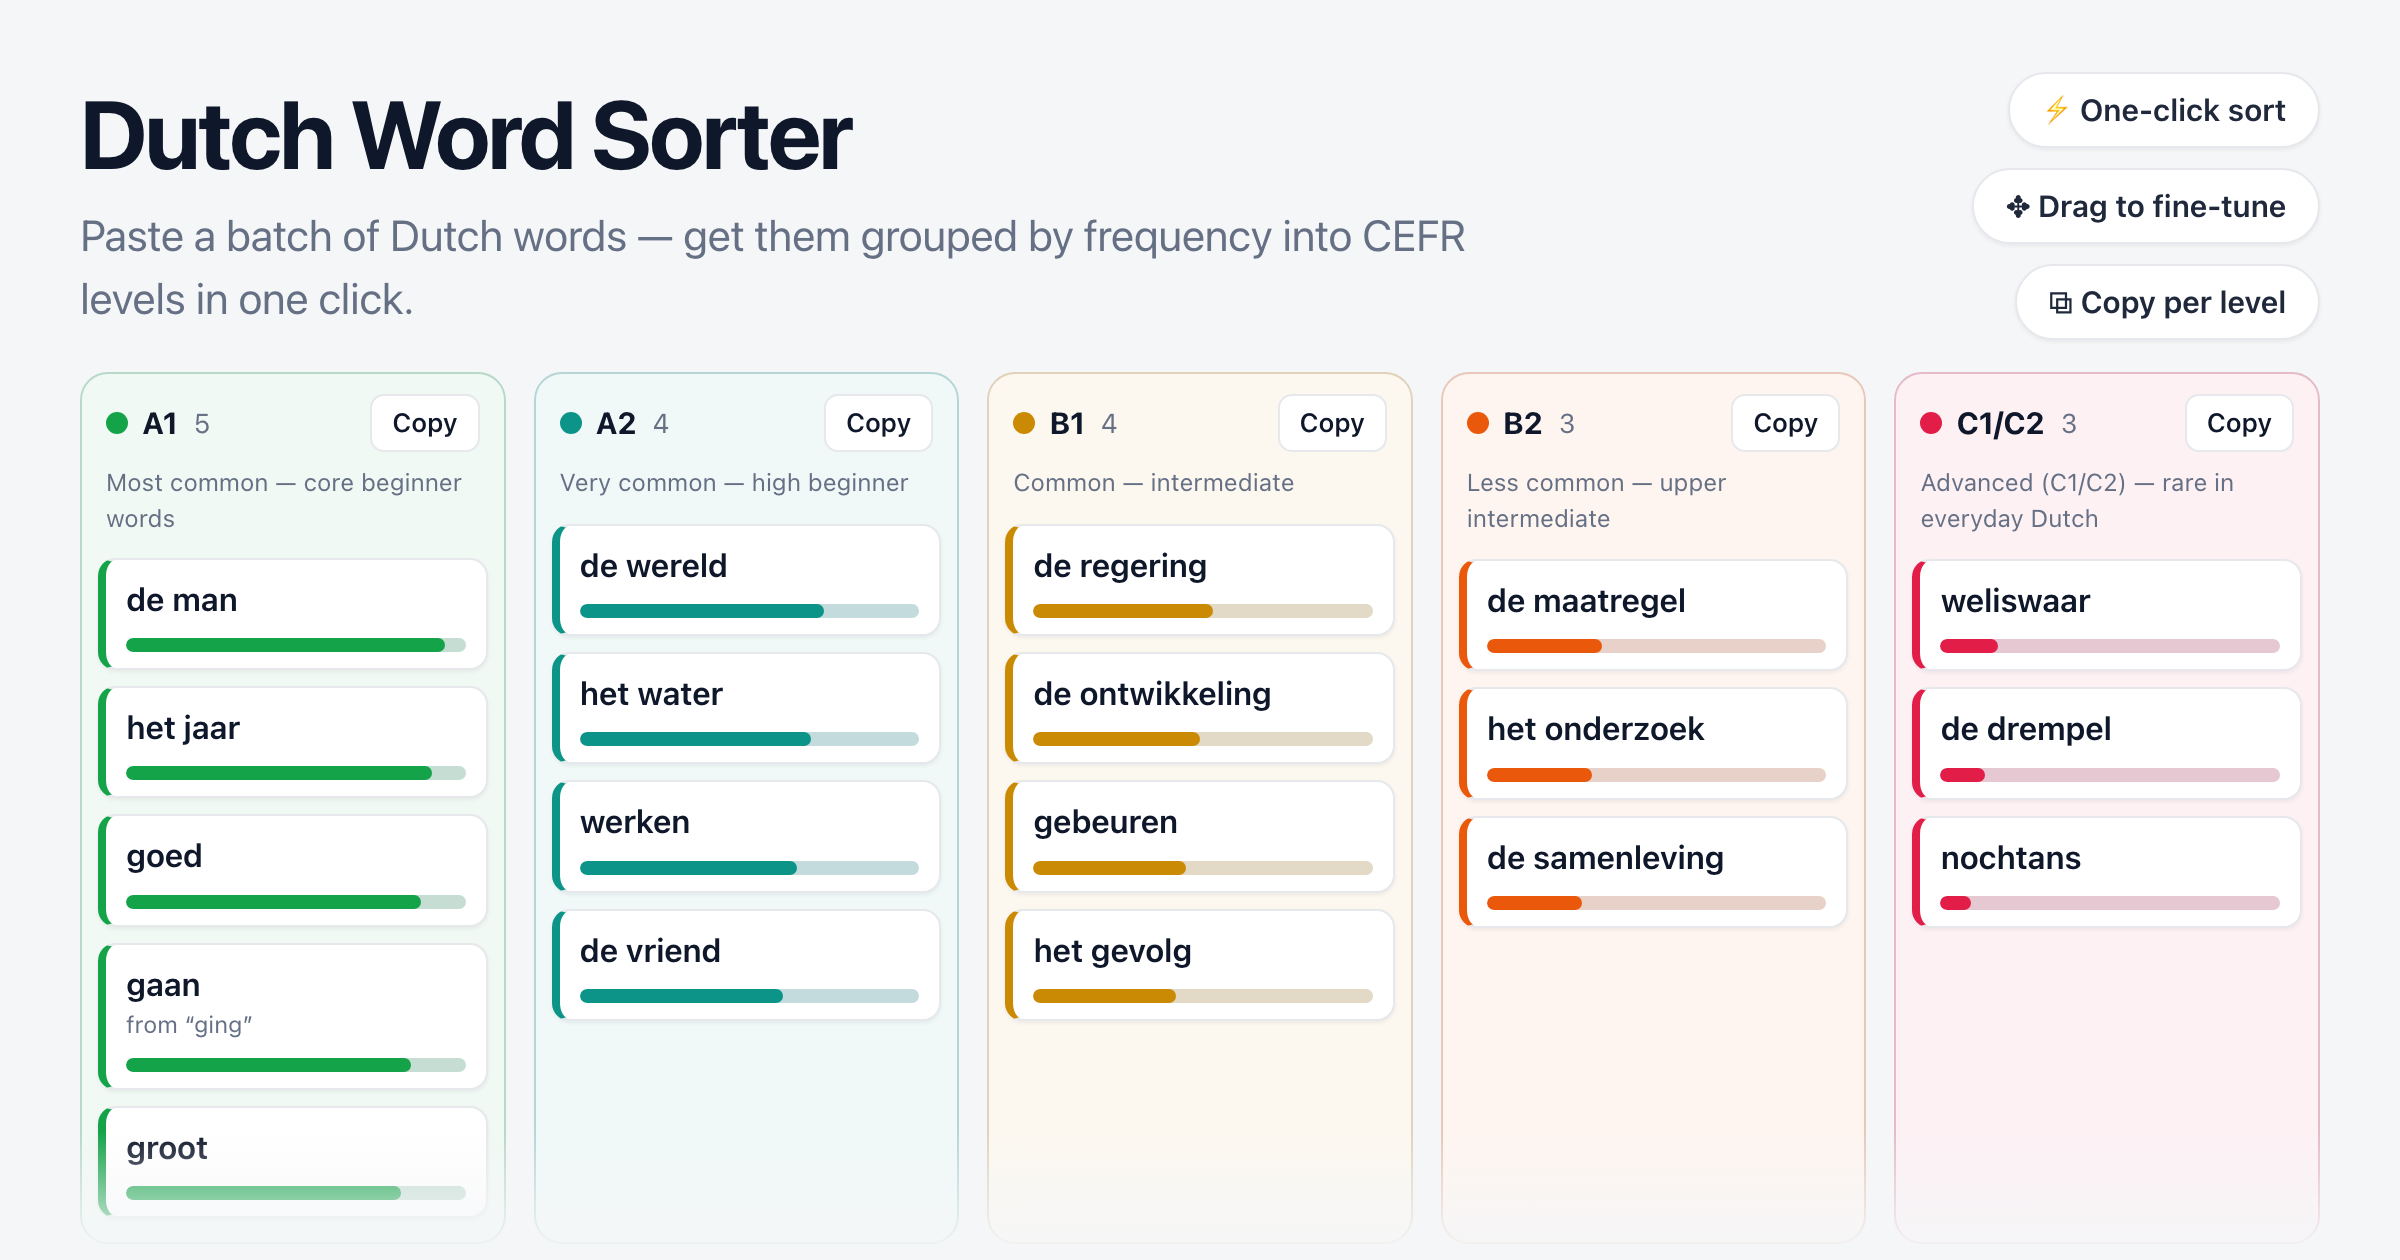
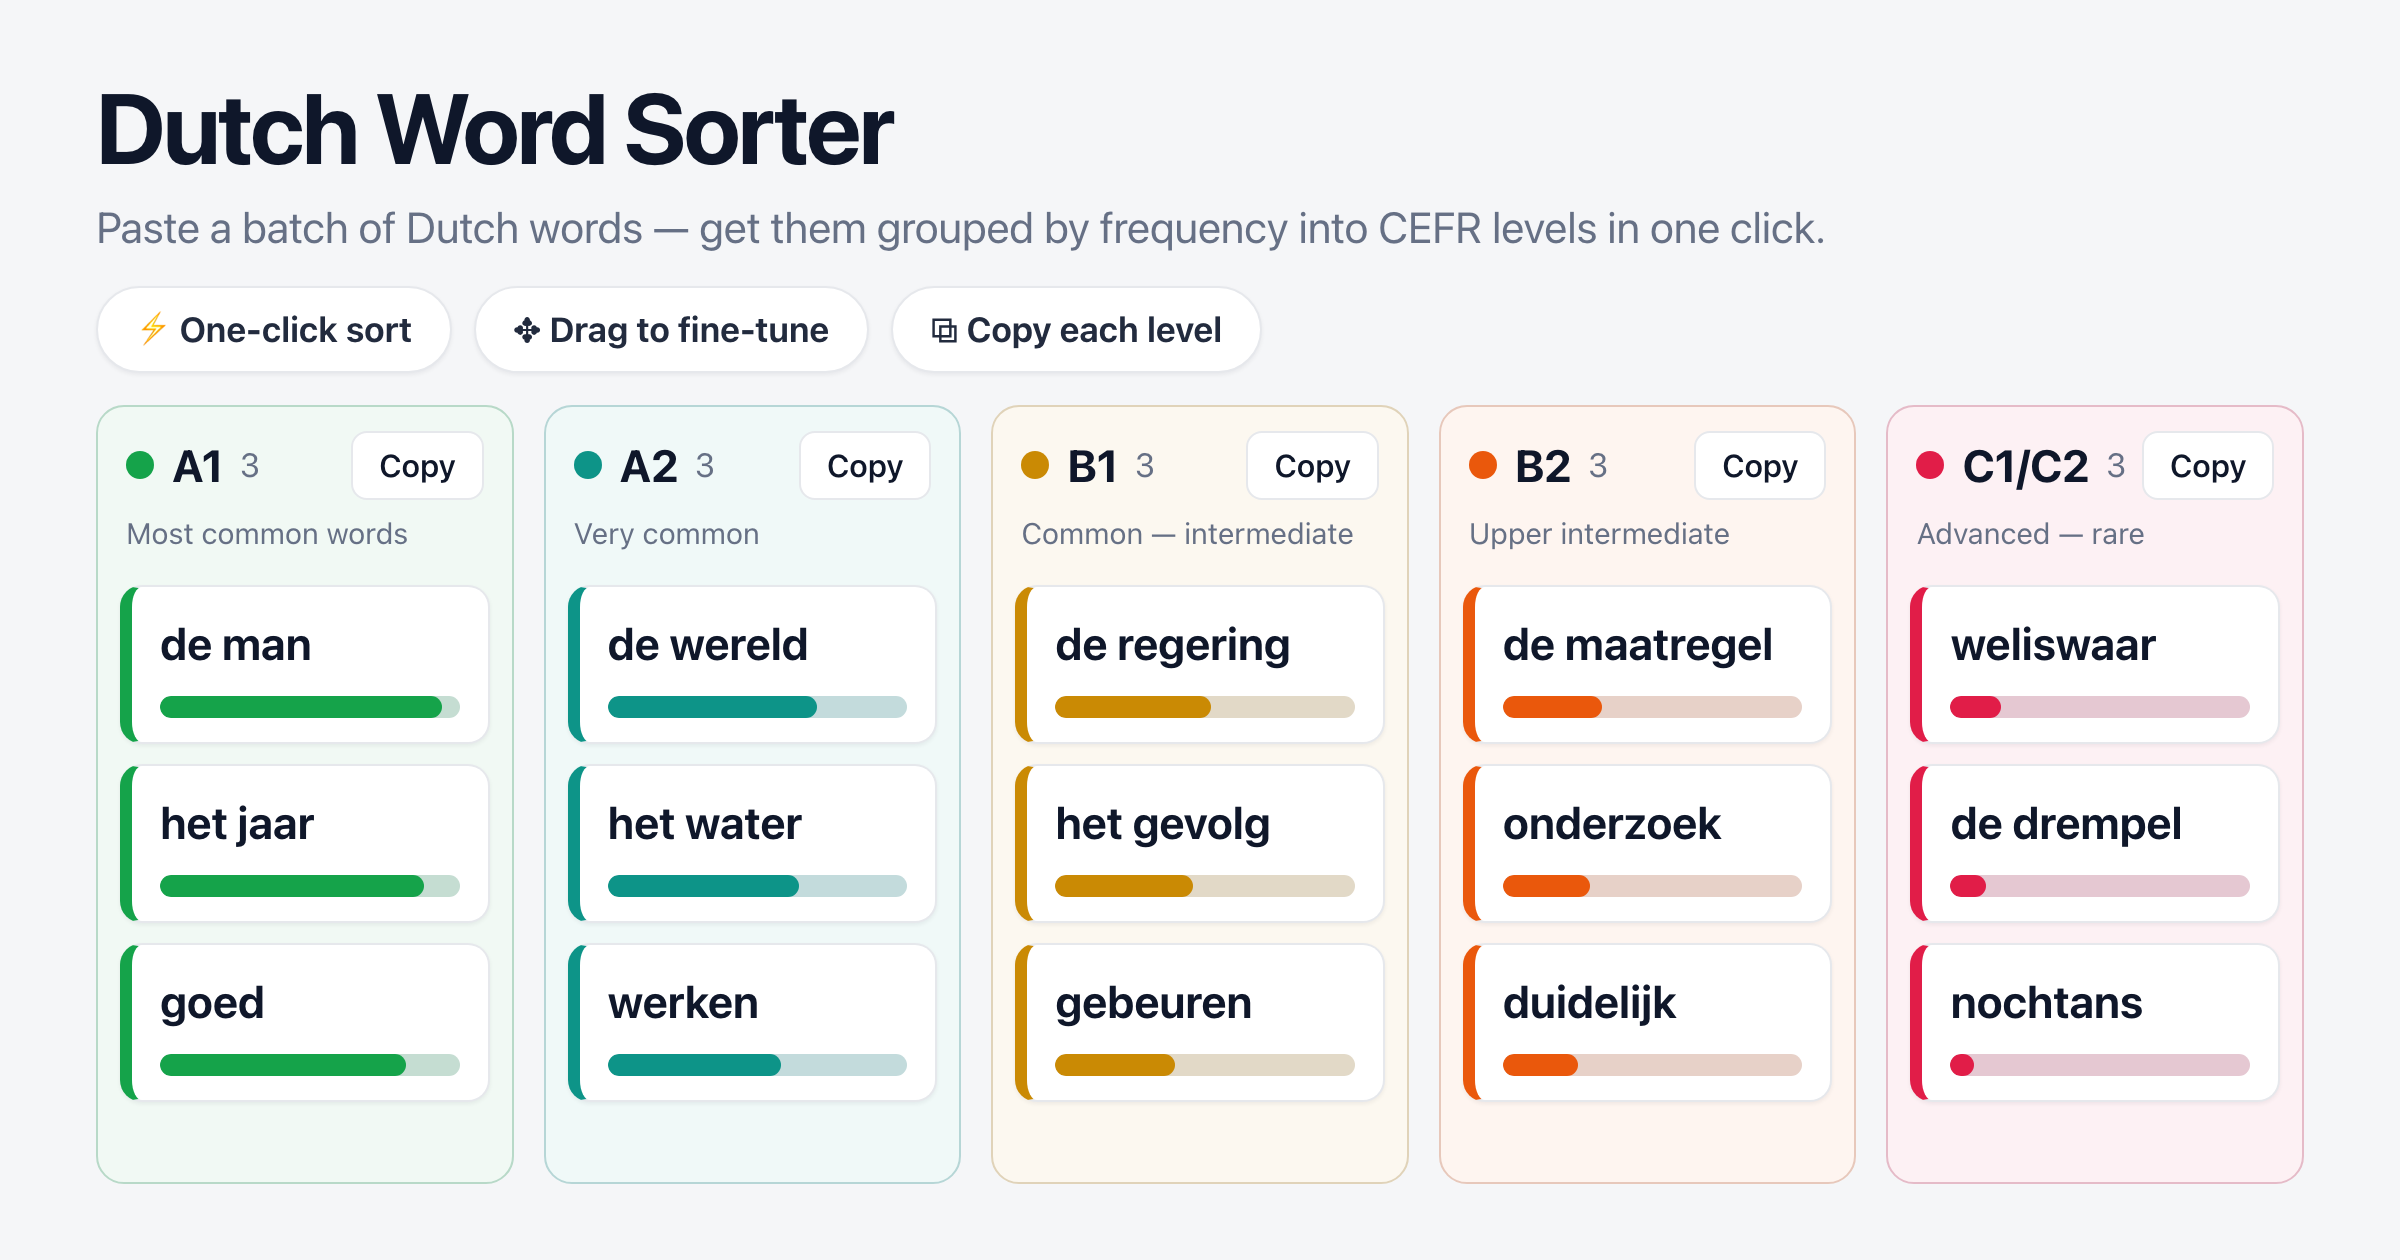
Redesign social card: bolder, lower-density layout that survives thumbnail downscale

diff --git a/scripts/og-image.html b/scripts/og-image.html
@@ -6,7 +6,10 @@
     <link rel="stylesheet" href="../src/styles/tokens.css" />
     <link rel="stylesheet" href="../src/styles/app.css" />
     <style>
-      /* OG-specific framing only — does not touch the shared component styles. */
+      /* OG framing. Design for the THUMBNAIL: social platforms downscale to
+         ~500px wide and re-encode as JPEG, which destroys small text and thin
+         borders. Everything here is big and bold, but still sized so all three
+         cards per column fit with NO clipping and NO word-wrap. */
       html,
       body {
         margin: 0;
@@ -16,87 +19,107 @@
         width: 1200px;
         height: 630px;
         overflow: hidden;
-        padding: 36px 40px 0;
+        padding: 38px 48px;
         display: flex;
         flex-direction: column;
         gap: 16px;
         font-family: var(--font);
         color: var(--text);
       }
-      .og-header {
-        display: flex;
-        align-items: center;
-        justify-content: space-between;
-        gap: 16px;
-      }
       .og-title h1 {
         margin: 0;
-        font-size: 3rem;
+        font-size: 3.1rem;
         letter-spacing: -0.03em;
-        line-height: 1.05;
+        line-height: 1.02;
       }
       .og-title p {
-        margin: 10px 0 0;
+        margin: 11px 0 0;
         color: var(--muted);
         font-size: 1.35rem;
-        max-width: 720px;
+        line-height: 1.28;
+        max-width: 920px;
       }
       .og-pills {
         display: flex;
-        gap: 10px;
-        flex-shrink: 0;
-        flex-direction: column;
-        align-items: flex-end;
+        gap: 11px;
       }
       .og-pill {
         background: var(--surface);
         border: 1px solid var(--border);
         border-radius: 999px;
-        padding: 7px 16px;
-        font-size: 0.95rem;
-        font-weight: 600;
-        color: color-mix(in srgb, var(--text) 80%, var(--muted));
+        padding: 8px 19px;
+        font-size: 1.08rem;
+        font-weight: 650;
+        color: color-mix(in srgb, var(--text) 78%, var(--muted));
         box-shadow: var(--shadow-sm);
         white-space: nowrap;
       }
-      /* Pin the board so 5 bands sit side-by-side, no horizontal scroll. */
+
+      /* Pin 5 bands side-by-side, no scroll, no clipping. */
       .og .board {
         overflow: hidden;
         flex: 1;
-        gap: 14px;
+        gap: 15px;
+        padding-bottom: 0;
       }
       .og .column {
         max-width: none;
         flex: 1 1 0;
       }
-      /* Fade the bottom edge so clipped cards look intentional, not cut off. */
-      .og .board::after {
-        content: "";
-        position: absolute;
+      .og .column-header {
+        padding: 12px 14px 6px;
       }
-      .og-fade {
-        position: absolute;
-        left: 0;
-        right: 0;
-        bottom: 0;
-        height: 64px;
-        background: linear-gradient(transparent, var(--bg));
-        pointer-events: none;
+      .og .column-title {
+        font-size: 1.4rem;
+        gap: 9px;
+      }
+      .og .column-dot {
+        width: 14px;
+        height: 14px;
+      }
+      .og .column-count {
+        font-size: 1.05rem;
+      }
+      .og .btn-copy {
+        font-size: 0.98rem;
+        padding: 5px 13px;
+        border-radius: 8px;
+      }
+      .og .column-hint {
+        font-size: 0.92rem;
+        padding: 0 14px 10px;
+        min-height: 1.4em;
+      }
+      .og .column-list {
+        gap: 10px;
+        padding: 5px 11px 12px;
+      }
+      .og .card {
+        padding: 12px 14px;
+        border-left-width: 6px;
+        border-radius: 11px;
+      }
+      .og .card-lemma {
+        font-size: 1.4rem;
+        font-weight: 650;
+        white-space: nowrap;
+      }
+      .og .bar {
+        height: 11px;
+        margin-top: 10px;
       }
     </style>
   </head>
   <body>
     <div class="og">
-      <div class="og-header">
-        <div class="og-title">
-          <h1>Dutch Word Sorter</h1>
-          <p>Paste a batch of Dutch words — get them grouped by frequency into CEFR levels in one click.</p>
-        </div>
-        <div class="og-pills">
-          <span class="og-pill">⚡ One-click sort</span>
-          <span class="og-pill">✥ Drag to fine-tune</span>
-          <span class="og-pill">⧉ Copy per level</span>
-        </div>
+      <div class="og-title">
+        <h1>Dutch Word Sorter</h1>
+        <p>Paste a batch of Dutch words — get them grouped by frequency into CEFR levels in one click.</p>
+      </div>
+      <div class="og-pills">
+        <span class="og-pill">⚡ One-click sort</span>
+        <span class="og-pill">✥ Drag to fine-tune</span>
+        <span class="og-pill">⧉ Copy each level</span>
       </div>
 
       <div class="board">
@@ -104,46 +127,42 @@
         <section class="column" data-band="A1">
           <header class="column-header">
             <span class="column-title"><span class="column-dot"></span>A1</span>
-            <span class="column-count">5</span>
+            <span class="column-count">3</span>
             <button class="btn btn-copy">Copy</button>
           </header>
-          <div class="column-hint">Most common — core beginner words</div>
+          <div class="column-hint">Most common words</div>
           <div class="column-list">
             <div class="card" data-band="A1"><div class="card-top"><div class="card-words"><span class="card-lemma">de man</span></div></div><div class="bar"><span class="bar-fill" style="width:94%"></span></div></div>
-            <div class="card" data-band="A1"><div class="card-top"><div class="card-words"><span class="card-lemma">het jaar</span></div></div><div class="bar"><span class="bar-fill" style="width:90%"></span></div></div>
-            <div class="card" data-band="A1"><div class="card-top"><div class="card-words"><span class="card-lemma">goed</span></div></div><div class="bar"><span class="bar-fill" style="width:87%"></span></div></div>
-            <div class="card" data-band="A1"><div class="card-top"><div class="card-words"><span class="card-lemma">gaan</span><span class="card-from">from &ldquo;ging&rdquo;</span></div></div><div class="bar"><span class="bar-fill" style="width:84%"></span></div></div>
-            <div class="card" data-band="A1"><div class="card-top"><div class="card-words"><span class="card-lemma">groot</span></div></div><div class="bar"><span class="bar-fill" style="width:81%"></span></div></div>
+            <div class="card" data-band="A1"><div class="card-top"><div class="card-words"><span class="card-lemma">het jaar</span></div></div><div class="bar"><span class="bar-fill" style="width:88%"></span></div></div>
+            <div class="card" data-band="A1"><div class="card-top"><div class="card-words"><span class="card-lemma">goed</span></div></div><div class="bar"><span class="bar-fill" style="width:82%"></span></div></div>
           </div>
         </section>
         <!-- A2 -->
         <section class="column" data-band="A2">
           <header class="column-header">
             <span class="column-title"><span class="column-dot"></span>A2</span>
-            <span class="column-count">4</span>
+            <span class="column-count">3</span>
             <button class="btn btn-copy">Copy</button>
           </header>
-          <div class="column-hint">Very common — high beginner</div>
+          <div class="column-hint">Very common</div>
           <div class="column-list">
-            <div class="card" data-band="A2"><div class="card-top"><div class="card-words"><span class="card-lemma">de wereld</span></div></div><div class="bar"><span class="bar-fill" style="width:72%"></span></div></div>
-            <div class="card" data-band="A2"><div class="card-top"><div class="card-words"><span class="card-lemma">het water</span></div></div><div class="bar"><span class="bar-fill" style="width:68%"></span></div></div>
-            <div class="card" data-band="A2"><div class="card-top"><div class="card-words"><span class="card-lemma">werken</span></div></div><div class="bar"><span class="bar-fill" style="width:64%"></span></div></div>
-            <div class="card" data-band="A2"><div class="card-top"><div class="card-words"><span class="card-lemma">de vriend</span></div></div><div class="bar"><span class="bar-fill" style="width:60%"></span></div></div>
+            <div class="card" data-band="A2"><div class="card-top"><div class="card-words"><span class="card-lemma">de wereld</span></div></div><div class="bar"><span class="bar-fill" style="width:70%"></span></div></div>
+            <div class="card" data-band="A2"><div class="card-top"><div class="card-words"><span class="card-lemma">het water</span></div></div><div class="bar"><span class="bar-fill" style="width:64%"></span></div></div>
+            <div class="card" data-band="A2"><div class="card-top"><div class="card-words"><span class="card-lemma">werken</span></div></div><div class="bar"><span class="bar-fill" style="width:58%"></span></div></div>
           </div>
         </section>
         <!-- B1 -->
         <section class="column" data-band="B1">
           <header class="column-header">
             <span class="column-title"><span class="column-dot"></span>B1</span>
-            <span class="column-count">4</span>
+            <span class="column-count">3</span>
             <button class="btn btn-copy">Copy</button>
           </header>
           <div class="column-hint">Common — intermediate</div>
           <div class="column-list">
-            <div class="card" data-band="B1"><div class="card-top"><div class="card-words"><span class="card-lemma">de regering</span></div></div><div class="bar"><span class="bar-fill" style="width:53%"></span></div></div>
-            <div class="card" data-band="B1"><div class="card-top"><div class="card-words"><span class="card-lemma">de ontwikkeling</span></div></div><div class="bar"><span class="bar-fill" style="width:49%"></span></div></div>
-            <div class="card" data-band="B1"><div class="card-top"><div class="card-words"><span class="card-lemma">gebeuren</span></div></div><div class="bar"><span class="bar-fill" style="width:45%"></span></div></div>
-            <div class="card" data-band="B1"><div class="card-top"><div class="card-words"><span class="card-lemma">het gevolg</span></div></div><div class="bar"><span class="bar-fill" style="width:42%"></span></div></div>
+            <div class="card" data-band="B1"><div class="card-top"><div class="card-words"><span class="card-lemma">de regering</span></div></div><div class="bar"><span class="bar-fill" style="width:52%"></span></div></div>
+            <div class="card" data-band="B1"><div class="card-top"><div class="card-words"><span class="card-lemma">het gevolg</span></div></div><div class="bar"><span class="bar-fill" style="width:46%"></span></div></div>
+            <div class="card" data-band="B1"><div class="card-top"><div class="card-words"><span class="card-lemma">gebeuren</span></div></div><div class="bar"><span class="bar-fill" style="width:40%"></span></div></div>
           </div>
         </section>
         <!-- B2 -->
@@ -153,11 +172,11 @@
             <span class="column-count">3</span>
             <button class="btn btn-copy">Copy</button>
           </header>
-          <div class="column-hint">Less common — upper intermediate</div>
+          <div class="column-hint">Upper intermediate</div>
           <div class="column-list">
-            <div class="card" data-band="B2"><div class="card-top"><div class="card-words"><span class="card-lemma">de maatregel</span></div></div><div class="bar"><span class="bar-fill" style="width:34%"></span></div></div>
-            <div class="card" data-band="B2"><div class="card-top"><div class="card-words"><span class="card-lemma">het onderzoek</span></div></div><div class="bar"><span class="bar-fill" style="width:31%"></span></div></div>
-            <div class="card" data-band="B2"><div class="card-top"><div class="card-words"><span class="card-lemma">de samenleving</span></div></div><div class="bar"><span class="bar-fill" style="width:28%"></span></div></div>
+            <div class="card" data-band="B2"><div class="card-top"><div class="card-words"><span class="card-lemma">de maatregel</span></div></div><div class="bar"><span class="bar-fill" style="width:33%"></span></div></div>
+            <div class="card" data-band="B2"><div class="card-top"><div class="card-words"><span class="card-lemma">onderzoek</span></div></div><div class="bar"><span class="bar-fill" style="width:29%"></span></div></div>
+            <div class="card" data-band="B2"><div class="card-top"><div class="card-words"><span class="card-lemma">duidelijk</span></div></div><div class="bar"><span class="bar-fill" style="width:25%"></span></div></div>
           </div>
         </section>
         <!-- C -->
@@ -167,15 +186,14 @@
             <span class="column-count">3</span>
             <button class="btn btn-copy">Copy</button>
           </header>
-          <div class="column-hint">Advanced (C1/C2) — rare in everyday Dutch</div>
+          <div class="column-hint">Advanced — rare</div>
           <div class="column-list">
             <div class="card" data-band="C"><div class="card-top"><div class="card-words"><span class="card-lemma">weliswaar</span></div></div><div class="bar"><span class="bar-fill" style="width:17%"></span></div></div>
-            <div class="card" data-band="C"><div class="card-top"><div class="card-words"><span class="card-lemma">de drempel</span></div></div><div class="bar"><span class="bar-fill" style="width:13%"></span></div></div>
-            <div class="card" data-band="C"><div class="card-top"><div class="card-words"><span class="card-lemma">nochtans</span></div></div><div class="bar"><span class="bar-fill" style="width:9%"></span></div></div>
+            <div class="card" data-band="C"><div class="card-top"><div class="card-words"><span class="card-lemma">de drempel</span></div></div><div class="bar"><span class="bar-fill" style="width:12%"></span></div></div>
+            <div class="card" data-band="C"><div class="card-top"><div class="card-words"><span class="card-lemma">nochtans</span></div></div><div class="bar"><span class="bar-fill" style="width:8%"></span></div></div>
           </div>
         </section>
       </div>
     </div>
-    <div class="og-fade"></div>
   </body>
 </html>